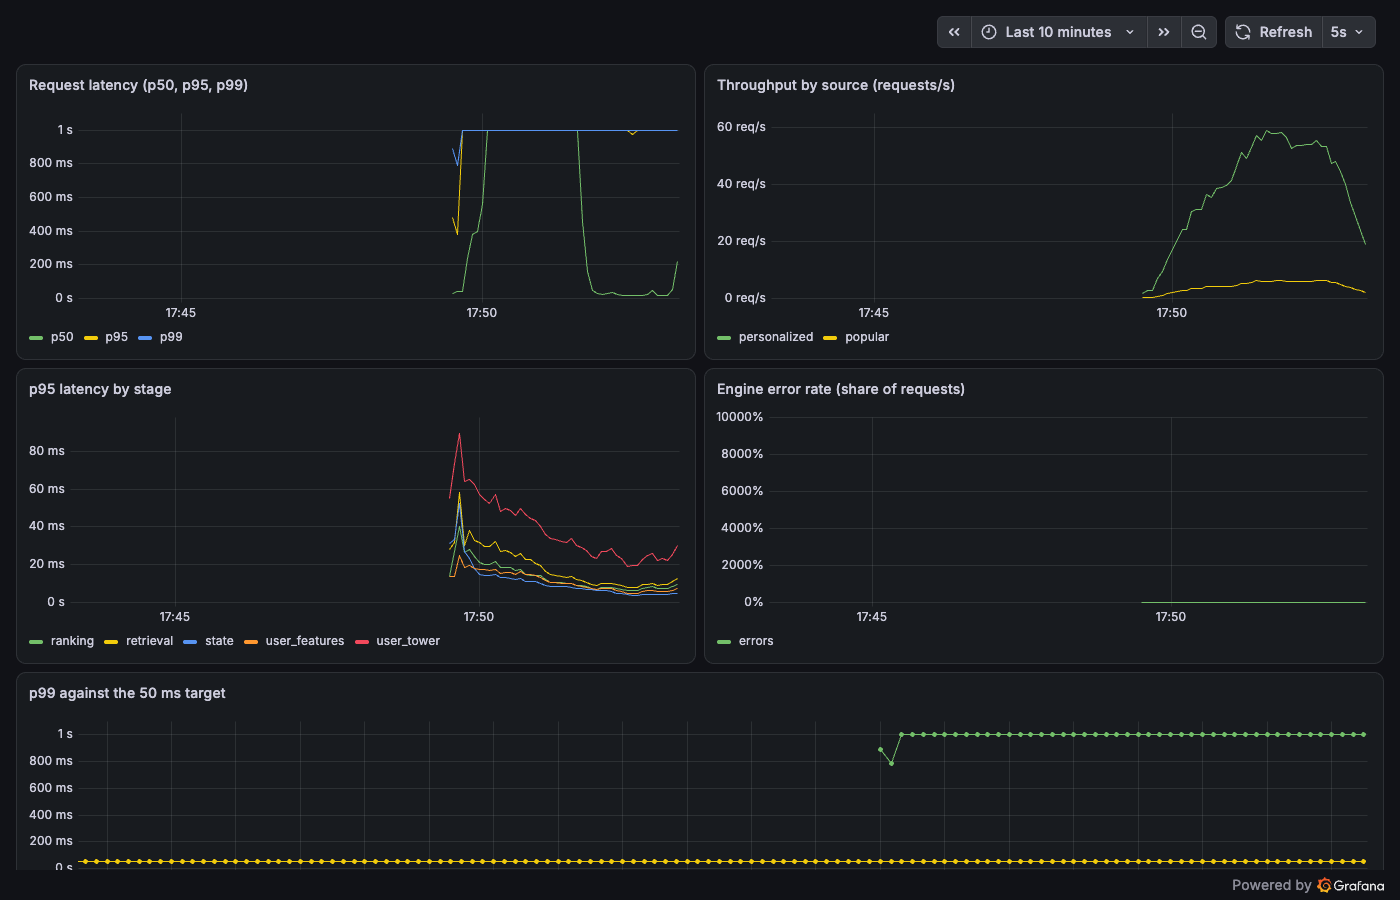
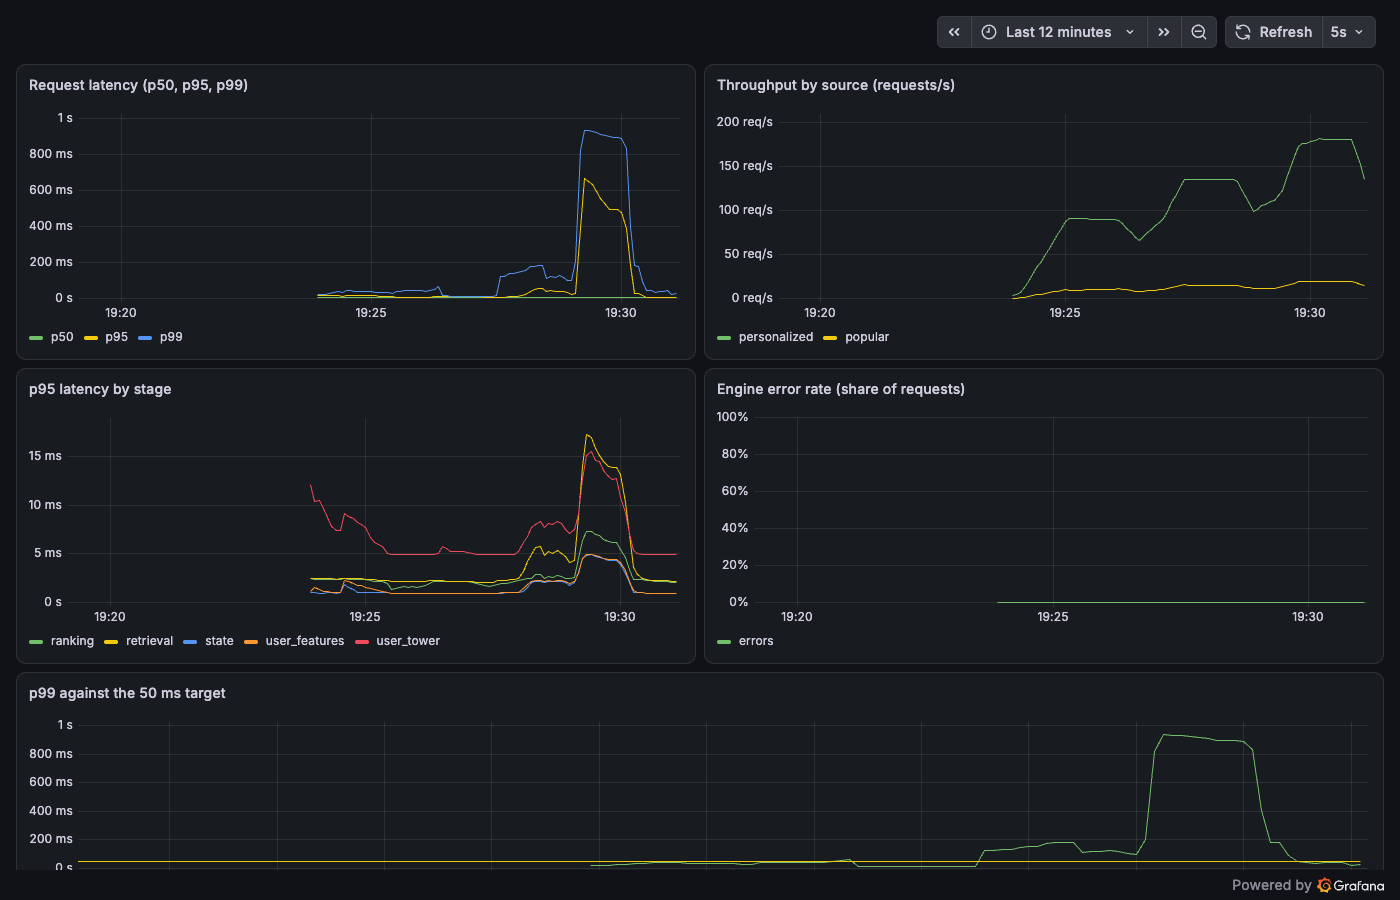
docs: add serving re-measure and check M10

diff --git a/src/streamrank/report.py b/src/streamrank/report.py
@@ -197,24 +197,32 @@ def load_line(path: Path, label: str) -> str | None:
 
 
 def serving_section(art: Path) -> list[str]:
-    rows = [
-        load_line(art / "serving" / f"load_summary_{rate}.json", f"Compose, {rate} req/s")
-        for rate in (100, 200, 250, 300)
-    ]
-    rows.append(
-        load_line(
-            art / "k8s" / "load_summary_kind.json",
+    serving, k8s = art / "serving", art / "k8s"
+    candidates = [
+        *(
+            (serving / f"load_summary_{rate}.json", f"Compose, {rate} req/s, quiet host (M7)")
+            for rate in (100, 200, 250, 300)
+        ),
+        *(
+            (serving / f"final_load_{rate}.json", f"Compose, {rate} req/s, busy host (final)")
+            for rate in (100, 150, 200)
+        ),
+        (
+            k8s / "load_summary_kind_150.json",
             "kind, 150 req/s, HPA scale-out from 1 pod (new connection per request)",
-        )
-    )
-    rows.append(
-        load_line(art / "k8s" / "load_summary_kind_steady_reuse.json", "kind, 150 req/s, 4 pods")
-    )
-    kept = [r for r in rows if r]
+        ),
+        (k8s / "load_summary_kind_steady_reuse.json", "kind, 150 req/s, 4 pods"),
+    ]
+    kept = [line for path, label in candidates if (line := load_line(path, label))]
     if not kept:
         return []
     return [
         "### Serving latency (k6)",
+        "",
+        "One API worker with 2 CPUs in Compose; 1 CPU per pod on kind. The quiet-host runs "
+        "were measured with nothing else running; the final runs had other work on the "
+        "laptop (load average about 5), which costs the single Python worker most of its "
+        "headroom.",
         "",
         "| Run | p50 ms | p95 ms | p99 ms | Dropped |",
         "| --- | ---: | ---: | ---: | ---: |",

diff --git a/docs/ROADMAP.md b/docs/ROADMAP.md
@@ -14,7 +14,7 @@ Each milestone is tracked by a GitHub issue and lands through one or more pull r
 - [x] M7 Serving API
 - [x] M8 Streaming session features
 - [x] M9 Online test simulation
-- [ ] M10 Observability, demo UI, Kubernetes
+- [x] M10 Observability, demo UI, Kubernetes
 - [x] M11 Final run, docs, release
 
 ## Scope notes
@@ -103,4 +103,5 @@ Retrieval refitted on train + validation for the 5 epochs early stopping chose o
 - M4: the user tower has no static user features. Each event's embedding carries the positive flag and the time gap since the previous event, and user statistics (activity, rating mean, tenure) are ranker features instead.
 - M6/M8: session features are computed online and parity-tested (ADR 0010), but the ranker was trained on batch features only. Its training examples are built at one cutoff, and almost no user has events in the 30 minutes before it, so session features would be constant in training. Recent activity reaches recommendations through the user tower's sequence, which the stream updates on every event.
 - M11: on the test period the two-stage system trails EASE on NDCG@10 (-0.0257 [-0.0310, -0.0207]), where it tied on validation (+0.0033 [-0.0044, +0.0108]). The ranker still adds a clear gain over retrieval order, and the candidates it reorders already trail EASE (ADR 0006). No further tuning was done on test.
+- M7: p99 under 50 ms held up to 250 requests per second on a quiet laptop, but only up to about 100 with other work running (load average about 5): p99 41 ms at 100, 114 ms at 150. The single API worker is bound by Python's global interpreter lock, so more worker processes or replicas (as on kind) are the way to add headroom. Serving numbers for both conditions are in [results.md](results.md).
 - SHAP importance for the ranker uses LightGBM's built-in TreeSHAP (`pred_contrib=True`). The `shap` package currently resolves to an old `llvmlite` that fails to build with NumPy 2.5.

diff --git a/docs/results.md b/docs/results.md
@@ -77,11 +77,16 @@ hnsw(M=16,efC=200,ef=400): recall@200 against exact search 0.9992, single-query 
 
 ### Serving latency (k6)
 
+One API worker with 2 CPUs in Compose; 1 CPU per pod on kind. The quiet-host runs were measured with nothing else running; the final runs had other work on the laptop (load average about 5), which costs the single Python worker most of its headroom.
+
 | Run | p50 ms | p95 ms | p99 ms | Dropped |
 | --- | ---: | ---: | ---: | ---: |
-| Compose, 100 req/s | 5.4 | 6.6 | 7.6 | 0 |
-| Compose, 200 req/s | 5.0 | 5.8 | 6.9 | 0 |
-| Compose, 250 req/s | 5.2 | 6.0 | 6.8 | 0 |
-| Compose, 300 req/s | 5.1 | 6.4 | 96.8 | 4 |
-| kind, 150 req/s, HPA scale-out from 1 pod (new connection per request) | 6.1 | 2297.5 | 2503.1 | 721 |
+| Compose, 100 req/s, quiet host (M7) | 5.4 | 6.6 | 7.6 | 0 |
+| Compose, 200 req/s, quiet host (M7) | 5.0 | 5.8 | 6.9 | 0 |
+| Compose, 250 req/s, quiet host (M7) | 5.2 | 6.0 | 6.8 | 0 |
+| Compose, 300 req/s, quiet host (M7) | 5.1 | 6.4 | 96.8 | 4 |
+| Compose, 100 req/s, busy host (final) | 5.5 | 10.0 | 41.3 | 0 |
+| Compose, 150 req/s, busy host (final) | 5.5 | 19.0 | 113.8 | 0 |
+| Compose, 200 req/s, busy host (final) | 5.8 | 314.6 | 670.2 | 260 |
+| kind, 150 req/s, HPA scale-out from 1 pod (new connection per request) | 6.5 | 527.6 | 1919.7 | 243 |
 | kind, 150 req/s, 4 pods | 5.7 | 8.1 | 16.5 | 34 |
